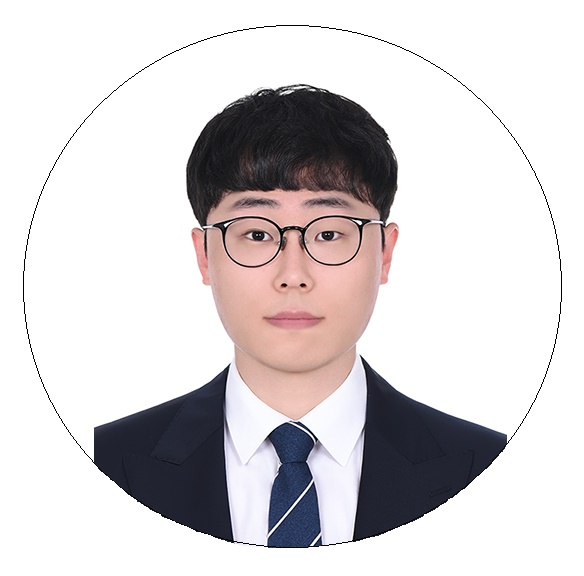
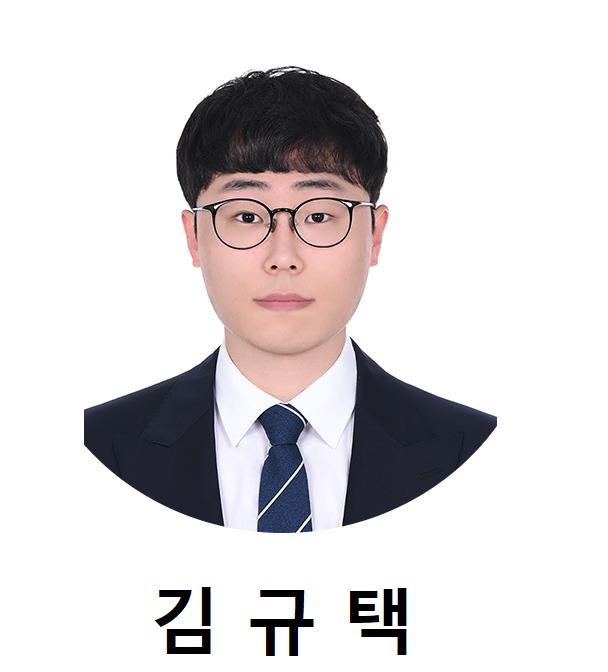
modify image

Changed region(s): [[0.1233, 0.0938, 0.8938, 1.0]]

diff --git a/README.md b/README.md
@@ -1,9 +1,6 @@
 ## 👤Profile
-<kbd>
-    <img src="./images/profile/profile_photo.jpg" width=130 height=130 alt="profileImg">
-</kbd>
 
-**김 규 택**
+<img src="./images/profile/profile_photo.jpg" width=130 height=140 alt="김규택">
 
 2024 국립공주대학교 KDT 수료생
 
